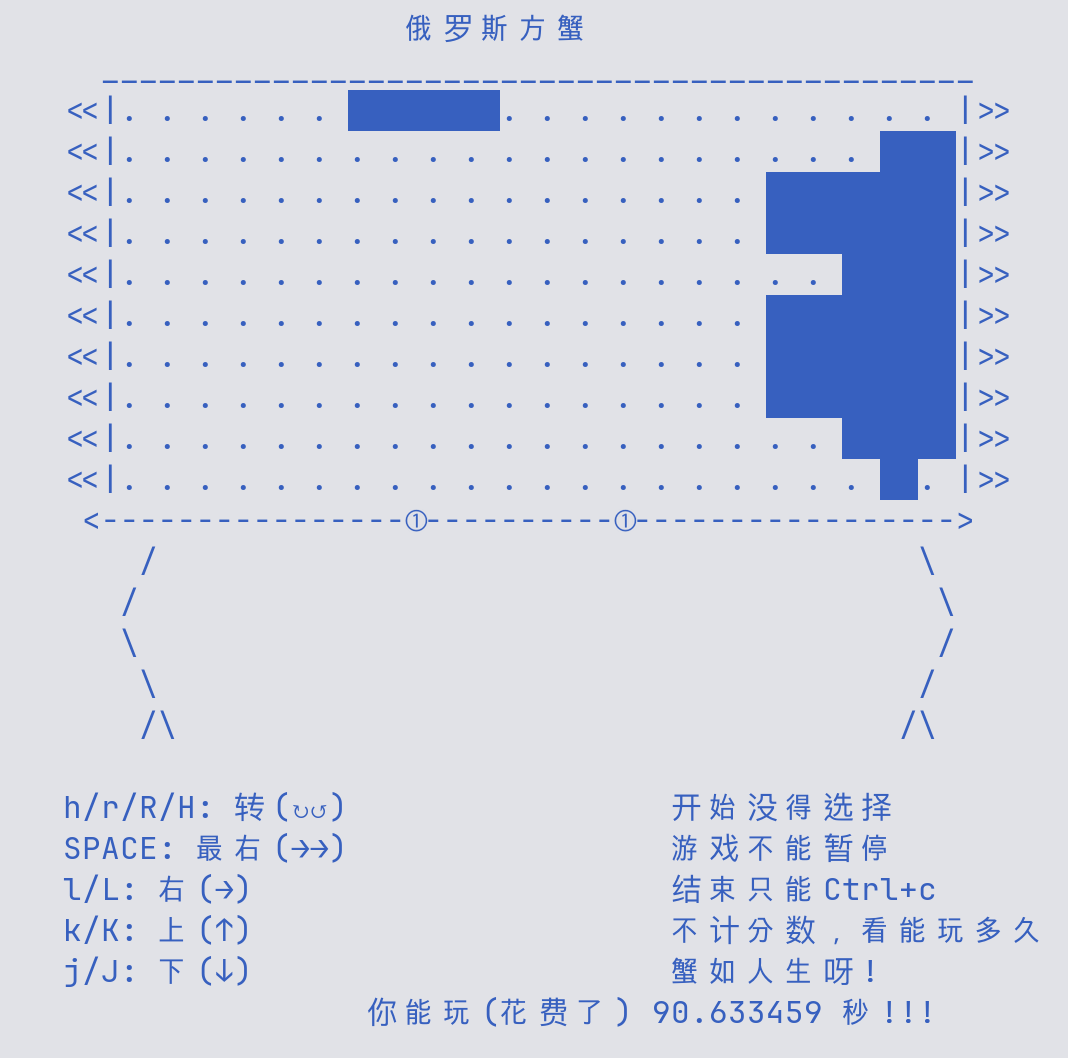
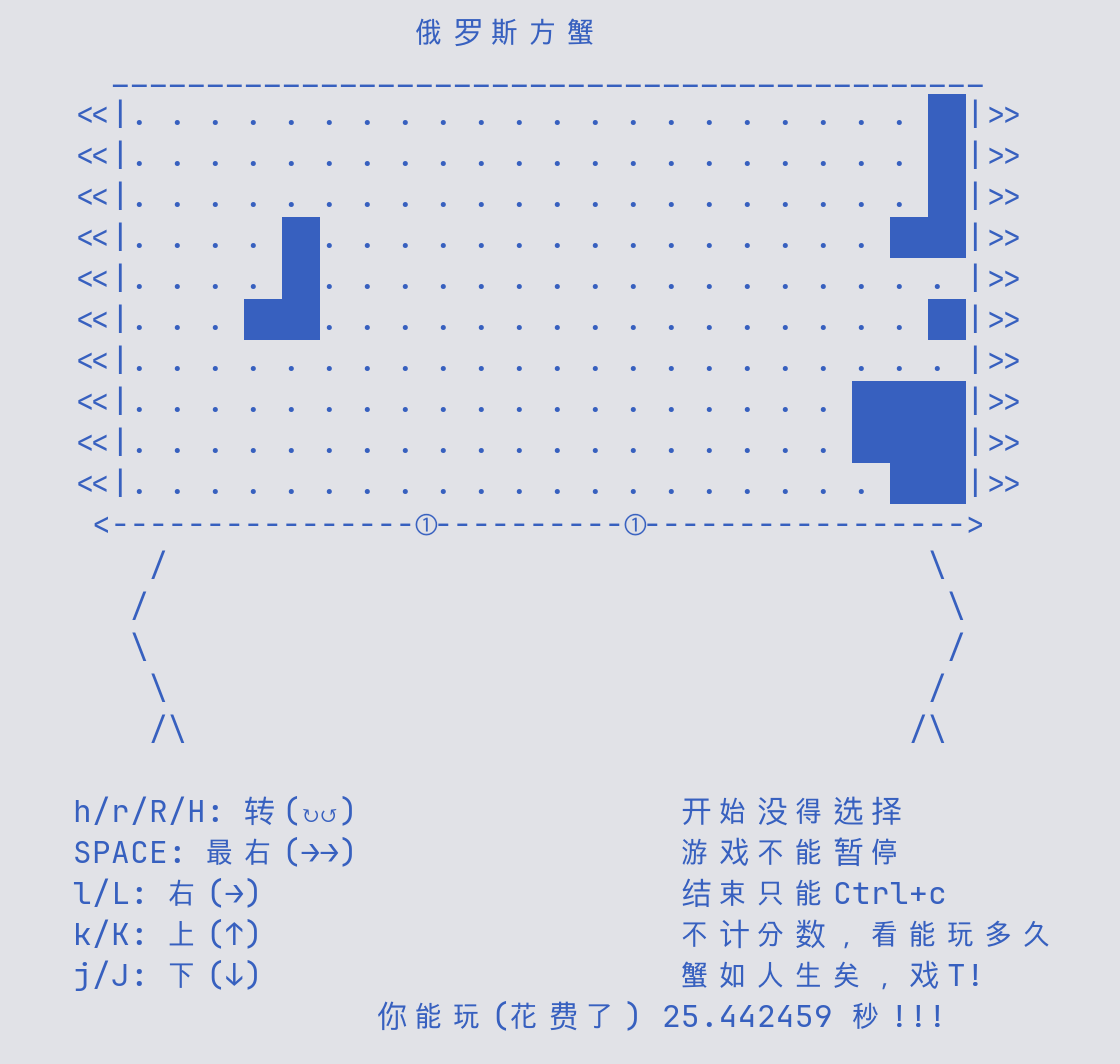
Say 戏T!

diff --git a/crabtris.c b/crabtris.c
@@ -110,7 +110,7 @@ void print_map() {
            "\tSPACE: 最右(→→)\t\t\t游戏不能暂停\n"
            "\tl/L: 右(→)\t\t\t结束只能Ctrl+c\n"
            "\tk/K: 上(↑)\t\t\t不计分数，看能玩多久\n"
-           "\tj/J: 下(↓)\t\t\t蟹如人生呀!\n");
+           "\tj/J: 下(↓)\t\t\t蟹如人生矣，戏T!\n");
 }
 
 void restore_console(void) {
